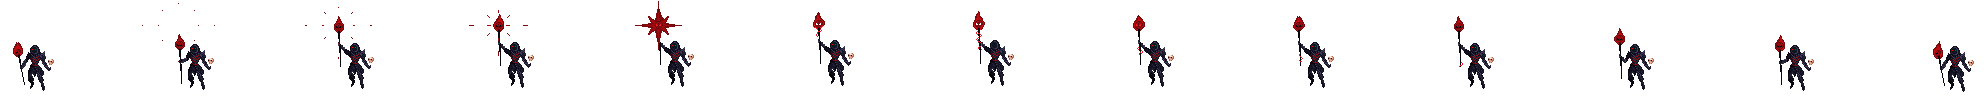
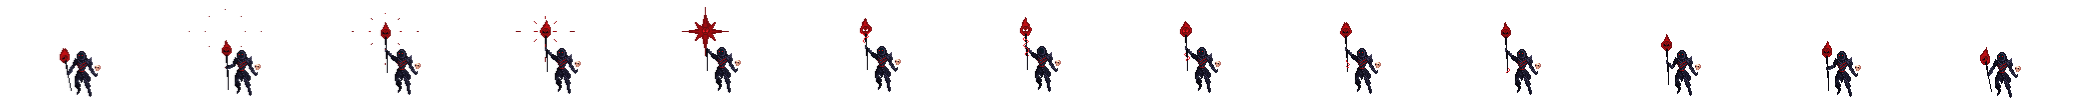
Edited sprite sheets to have 100px height
Transtitioning into sprite sheets for attack/hit caused issues with
alignment, after a long 2 hrs figured out that setting all the sheets
height to the same height helped with transition

diff --git a/index.js b/index.js
@@ -62,6 +62,7 @@ const dialogues = [
 
 const knightTxt = document.querySelector(".knight-text p");
 // const necromancerTxt = document.querySelector(".necromancer-text p");
+let enemyTxt = "";
 
 let dialogueIndex = 0;
 let charIndex = 0;
@@ -80,12 +81,15 @@ const typeText = (dialogues, onComplete) => {
 
   const type = () => {
     let textBox = "";
+
     const currentDialogue = dialogues[dialogueIndex];
     if (currentDialogue.speaker === "Knight") textBox = knightTxt;
-    else
-      textBox = document.querySelector(
+    else {
+      enemyTxt = document.querySelector(
         `.${currentDialogue.speaker.toLowerCase()}-text p`
       );
+      textBox = enemyTxt;
+    }
 
     if (charIndex === 0) {
       textBox.textContent = "";
@@ -121,7 +125,11 @@ const typeText = (dialogues, onComplete) => {
             removeTextBox.classList.add("hideItem");
           }, 1000);
         });
-        if (onComplete) onComplete(); // Call the callback when dialogue ends
+        if (onComplete) {
+          knightTxt.textContent = "";
+          enemyTxt.textContent = "";
+          onComplete();
+        } // Call the callback when dialogue ends
       }
     }
   };
@@ -365,10 +373,37 @@ const enableAttacks = () => {
 };
 
 const endingKnightDialogue = [
-  { speaker: "Knight", text: "AHHHH you are deeeeeeead socuk" },
+  // { speaker: "Knight", text: "Ha I win. You lost, your domain is mine now" },
+  // {
+  //   speaker: "Necromancer",
+  //   text: "What foolishness go now before I curse you",
+  // },
+  // {
+  //   speaker: "Knight",
+  //   text: "I'm not joking. Everyone knows when you lose a game of Rock, Paper, Scissors that you fortfiet your domain",
+  // },
+  // {
+  //   speaker: "Necromancer",
+  //   text: "WHAT! Your sniveling tongue shall now lead to your death",
+  // },
+  // {
+  //   speaker: "Knight",
+  //   text: "Leave now before my domain crushes you",
+  // },
+  {
+    speaker: "Necromancer",
+    text: "Dieeee",
+  },
 ];
 const endingNecromancerDialogue = [
-  { speaker: "Necromancer", text: "Boom shacka lacka" },
+  // {
+  //   speaker: "Necromancer",
+  //   text: "You may die now",
+  // },
+  // { speaker: "Knight", text: "Not if I have anything to say about it!" },
+  // { speaker: "Necromancer", text: "You cannot stop me!" },
+  // { speaker: "Knight", text: "We'll see about that." },
+  { speaker: "Necromancer", text: "Dieeee" },
 ];
 
 const endGame = (winner) => {
@@ -378,22 +413,39 @@ const endGame = (winner) => {
   knightScoreDisplay.textContent = "0";
   enemyScoreDisplay.classList.add("hideItem");
   enemyScoreDisplay.textContent = "0";
+
   if (winner === "necromancer") {
+    knightTextBox.classList.remove("hideItem");
     necromancerTextBox.classList.remove("hideItem");
-    console.log(endingNecromancerDialogue);
     typeText(endingNecromancerDialogue, () => {
       console.log("Necro");
     });
   } else {
-    console.log(endingKnightDialogue);
     knightTextBox.classList.remove("hideItem");
+    necromancerTextBox.classList.remove("hideItem");
     typeText(endingKnightDialogue, () => {
       console.log("knight");
+
+      // Trigger animations after the dialogue
+      setTimeout(() => {
+        // Knight grows in scale
+
+        // Necromancer moves towards Knight
+        necromancer.classList.add("necro-attack");
+
+        // After moving, Necromancer gets hurt and dies
+        setTimeout(() => {
+          necromancer.classList.add("necro-hurt");
+          setTimeout(() => {
+            necromancer.classList.add("necroDeath");
+          }, 1000);
+        }, 4000);
+      }, 1000); // Delay before starting animations
     });
   }
 };
 
-const winsNeeded = 3;
+const winsNeeded = 1;
 
 const handleAttackClick = (enemy, event) => {
   console.log(enemy);
@@ -423,3 +475,17 @@ startButton.addEventListener("click", () => {
     });
   });
 });
+
+//possible code to reduce playRound if not doing anything dependent on each choice of attack
+
+// const determineOutcome = (humanSelection, computerSelection) => {
+//   if (computerSelection === humanSelection) return "tie";
+//   if (
+//     (computerSelection === paper && humanSelection === rock) ||
+//     (computerSelection === rock && humanSelection === scissors) ||
+//     (computerSelection === scissors && humanSelection === paper)
+//   ) {
+//     return "computer";
+//   }
+//   return "human";
+// };

diff --git a/style.css b/style.css
@@ -123,7 +123,7 @@ body {
   image-rendering: pixelated;
   transform: scale(3);
   position: relative;
-  right: 20%;
+  /* right: 20%; */
 }
 .knight-entrance {
   animation: knightWalk 1s steps(7) 4 forwards, knightMove 4s linear 1 forwards;
@@ -147,24 +147,25 @@ body {
 
 .necromancer {
   width: 160px;
-  height: 74px;
-  background: url("./images/necromancer-run.png") no-repeat;
+  height: 100px;
   image-rendering: pixelated;
-  transform: scale(3);
   position: relative;
-  right: -15%;
+  transform: scale(3);
+  right: 10%;
+
+  /* right: -15%; */
 }
 .necromancer-entrance {
-  animation: necroRun 1s steps(7) 4 forwards reverse,
-    necroMove 4s linear 1 forwards;
+  background: url("./images/necromancer-idle.png");
+  animation: necroRun 1s steps(7) 4 forwards, necroMove 4s linear 1 forwards;
 }
 
 @keyframes necroRun {
   from {
-    background-position: -1120px 0;
+    background-position: 0px 0;
   }
   to {
-    background-position: 0 0;
+    background-position: -1119px 0;
   }
 }
 @keyframes necroMove {
@@ -316,4 +317,62 @@ div .display-countdown {
 .scoreboard span {
   width: 100%;
   text-align: center;
+}
+
+/* Knight growing animation */
+@keyframes knightGrow {
+  from {
+    bottom: 0%;
+    transform: scale(3);
+  }
+  to {
+    bottom: 8%;
+    transform: scale(8);
+  }
+}
+.knight-grow {
+  animation: knightGrow 4s forwards;
+}
+
+/* Necromancer moving towards Knight */
+@keyframes necroMoveTowards {
+  from {
+    right: 30%;
+    background-position: -1920px 0;
+  }
+  to {
+    background-position: 0px 0;
+    right: 30%;
+  }
+}
+.necro-attack {
+  animation: necroMoveTowards steps(12) 4s forwards reverse;
+  background-image: url(./images/necromancer-attack.png);
+}
+
+.necro-hurt {
+  animation: necroHurt steps(4) 1s forwards reverse;
+  background-image: url(./images/necromancer-hit.png);
+}
+/* Necromancer hurt animation */
+@keyframes necroHurt {
+  from {
+    background-position: -640px 0;
+    right: 30%;
+  }
+  to {
+    background-position: 0px 0;
+    right: 30%;
+  }
+}
+
+/* Necromancer death animation */
+@keyframes necroDeath {
+  from {
+    transform: scale(3);
+  }
+  to {
+    transform: scale(3) translateY(100px);
+    opacity: 0;
+  }
 }
